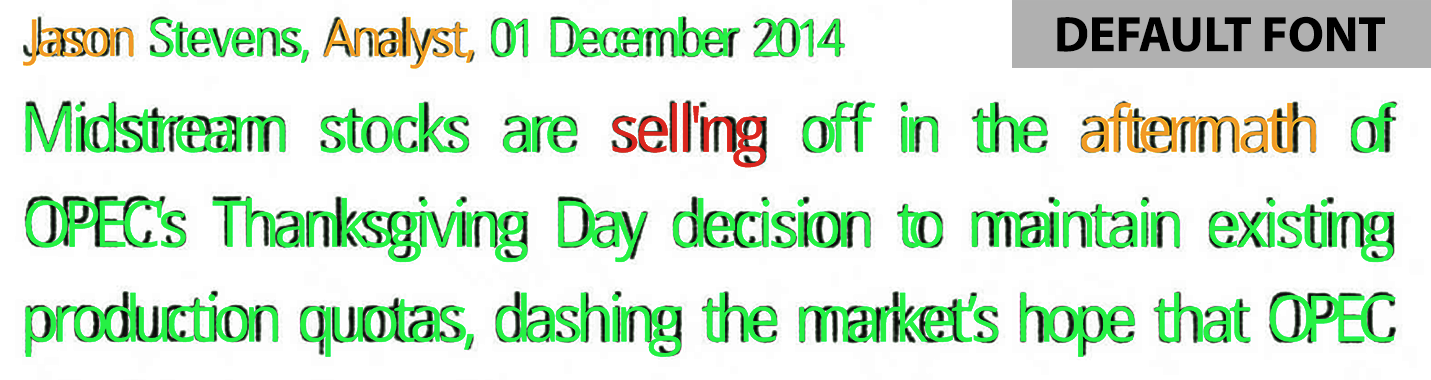
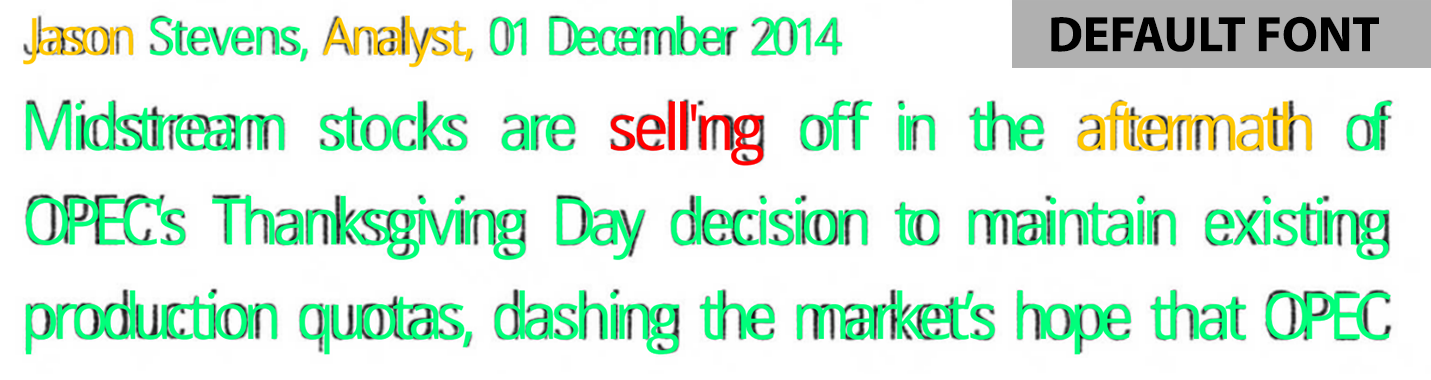
Fixed bugs

diff --git a/js/fontOptimize.js b/js/fontOptimize.js
@@ -14,8 +14,6 @@ export async function optimizeFont(font, auxFont, fontMetricsObj){
     let workingFont = opentype.parse(fontData, {lowMemory:false});
     let workingFontAux = opentype.parse(fontDataAux, {lowMemory:false});
 
-    workingFont.tables.gsub = null;
-
     let oGlyph = workingFont.charToGlyph("o").getMetrics();
     let xHeight = oGlyph.yMax - oGlyph.yMin;
 
@@ -26,6 +24,8 @@ export async function optimizeFont(font, auxFont, fontMetricsObj){
     const singleStemClassA = ["f","i","l","t","I"];
     const singleStemClassB = ["f","i","j","l","t","I","J","T"];
 
+    //const workingFontRightBearingMedian = quantile(lower.map(x => workingFont.charToGlyph(x).getMetrics().rightSideBearing), 0.5);
+    //console.log("workingFontRightBearingMedian: " + workingFontRightBearingMedian);
 
     // Adjust character width and advance
     for (const [key, value] of Object.entries(fontMetricsObj["charWidth"])) {
@@ -58,6 +58,7 @@ export async function optimizeFont(font, auxFont, fontMetricsObj){
 
         }
       }
+      //shiftX = shiftX + workingFontRightBearingMedian;
 
       // TODO: For simplicitly this assumes the visual center of the glyph is in the center of the bounding box.
       // This is not always true (for example, for "f" and "t" in Libre Baskerville).
@@ -216,7 +217,7 @@ export async function optimizeFont(font, auxFont, fontMetricsObj){
     let maxKern = Math.round(workingFont.unitsPerEm * 0.1);
     let minKern = maxKern * -1;
 
-    for (const [key, value] of Object.entries(fontMetricsObj["pairKerning"])) {
+    for (const [key, value] of Object.entries(fontMetricsObj["pairKerningRaw"])) {
       let nameFirst = key.match(/\w+/)[0];
       let nameSecond = key.match(/\w+$/)[0];
 
@@ -285,6 +286,7 @@ export function calculateOverallFontMetrics(fontMetricObjsMessage){
     fontMetricsObj["charWidth"] = new Object;
     fontMetricsObj["charHeight"] = new Object;
     fontMetricsObj["pairKerning"] = new Object;
+    fontMetricsObj["pairKerningRaw"] = new Object;
     fontMetricsObj["cutMedian"] = new Object;
 
     const pageN = fontMetricObjsMessage["widthObjAll"].length;
@@ -369,6 +371,7 @@ export function calculateOverallFontMetrics(fontMetricObjsMessage){
 
    let kerningNorm;
    for (const [key, value] of Object.entries(kerningObj)) {
+     fontMetricsObj["pairKerningRaw"][key] = quantile(value, 0.5);
      //kerningNorm = Math.round((quantile(value, 0.5) - cutMedian[key.match(/\w+$/)]) * 1e5) / 1e5;
      kerningNorm = quantile(value, 0.5) - fontMetricsObj["cutMedian"][key.match(/\w+$/)];
      if(Math.abs(kerningNorm) > 0.02){

diff --git a/js/convertPage.js b/js/convertPage.js
@@ -47,9 +47,13 @@ function convertPage(hocrString){
   var lineLeft = new Array;
   var lineTop = new Array;
 
-  let pageElement = hocrString.match(/<div class=[\"\']ocr_page[\"\'][^\>]+/i)[0];
-  let pageDims = pageElement.match(/(?<=bbox \d+ \d+ )(\d+) (\d+)/i);
-  pageDims = [parseInt(pageDims[2]),parseInt(pageDims[1])];
+  let pageDims = [null,null];
+  let pageElement = hocrString.match(/<div class=[\"\']ocr_page[\"\'][^\>]+/i);
+  if(pageElement != null){
+    pageElement = pageElement[0];
+    pageDims = pageElement.match(/(?<=bbox \d+ \d+ )(\d+) (\d+)/i);
+    pageDims = [parseInt(pageDims[2]),parseInt(pageDims[1])];
+  }
 
   // Test whether character-level data (class="ocrx_cinfo" in Tesseract) is present.
   const charMode = /ocrx_cinfo/.test(hocrString) ? true : false;
@@ -91,12 +95,19 @@ function convertPage(hocrString){
   function convertLine(match){
     let titleStrLine = match.match(/(?<=title\=[\'\"])[^\'\"]+/)
     if(titleStrLine == null){
-      return("")
+      return("");
     } else {
       titleStrLine = titleStrLine[0];
     }
     let linebox = [...titleStrLine.matchAll(/bbox(?:es)?(\s+\d+)(\s+\d+)?(\s+\d+)?(\s+\d+)?/g)][0].slice(1,5).map(function (x) {return parseInt(x)})
-    let baseline = [...titleStrLine.matchAll(/baseline(\s+[\d\.\-]+)(\s+[\d\.\-]+)/g)][0].slice(1,5).map(function (x) {return parseFloat(x)})
+
+    // The baseline can be missing in the case of vertical text (textangle present instead)
+    let baseline = [...titleStrLine.matchAll(/baseline(\s+[\d\.\-]+)(\s+[\d\.\-]+)/g)][0];
+    if(baseline == null){
+      return("");
+    } else {
+      baseline = baseline.slice(1,5).map(function (x) {return parseFloat(x)});
+    }
     // Only calculate baselines from lines 200px+.
     // This avoids short "lines" (e.g. page numbers) that often report wild values.
     if((linebox[2] - linebox[0]) >= 200){
@@ -192,13 +203,13 @@ function convertPage(hocrString){
       text = text.trim()
 
       if(text == ""){
-        return("")
+        return("");
       } else {
         //let wordStr = match.match(/<span class\=[\"\']ocrx_word[^\>]+\>/i)[0];
         let wordStr = match.match(wordElementRegex)[0];
         //wordStr = wordStr.replace(/(?<=title\=[\"\'])[^\"\']+/, "$&" + ";cuts " + cuts.join(' '));
         //wordStr = wordStr.replace(wordTitleRegex, "$&" + ";cuts " + cuts.join(' '));
-        return(wordStr + text + "</span>")
+        return(wordStr + text + "</span>");
       }
     }
 

diff --git a/index.html b/index.html
@@ -86,7 +86,7 @@
 
 <body>
 
-  <div class="navbar sticky-top navbar-light bg-light" style="padding-bottom:0px">
+  <div id="navBar" class="navbar sticky-top navbar-light bg-light" style="padding-bottom:0px;width:100%">
     <div class="container">
       <div class="container-fluid" id="user-controls">
         <div class="row nav-row">
@@ -123,8 +123,8 @@
               <div class="col col-2">
                 <select id="wordFont" class="form-select form-select-sm" size="1" onchange="changeWordFont(this.value)">
                   <option selected value="Default">Default</option>
-                  <option value="Open Sans">Open Sans</option>
-                  <option value="Libre Baskerville">Libre Baskerville</option>
+                  <option value="Open Sans">Sans (Open Sans)</option>
+                  <option value="Libre Baskerville">Serif (Libre Baskerville)</option>
                 </select>
                 <div class="input-group" style="padding-top:0.4rem;">
                   <button class="btn btn-secondary btn-sm" id="fontMinus">-</button>
@@ -316,8 +316,8 @@ For both OCR and image files, individual files for each page or a single file wi
               <div class="col col-3">
                 <label for="displayFont">Font (Default)</label>
                 <select id="displayFont" class="form-select" size="1">
-                  <option value="Open Sans">Open Sans</option>
-                  <option selected value="Libre Baskerville">Libre Baskerville</option>
+                  <option value="Open Sans">Sans (Open Sans)</option>
+                  <option selected value="Libre Baskerville">Serif (Libre Baskerville)</option>
 
                 </select>
               </div>
@@ -477,7 +477,7 @@ For both OCR and image files, individual files for each page or a single file wi
 
           <div class="container">
             <div class="col col-md-9">
-              <canvas id="c" style="border-style:solid;" width="450" height="600"></canvas>
+              <canvas id="c" style="border-style:solid" width="450" height="600"></canvas>
               <canvas id="d" style="display:none;"></canvas>
             </div>
 

diff --git a/main.js b/main.js
@@ -132,7 +132,7 @@ document.getElementById('rangeLeftMargin').addEventListener('mouseup', () => {ad
 document.getElementById('save2').addEventListener('click', handleDownload);
 document.getElementById('pdfPagesLabel').addEventListener('click', updatePdfPagesLabel);
 
-document.getElementById('displayMode').addEventListener('change', () => {selectDisplayMode(event.target.value)});
+document.getElementById('displayMode').addEventListener('change', () => {selectDisplayMode(event.target.value, backgroundOpts)});
 
 
 document.getElementById('pdfPageMin').addEventListener('keyup', function(event){
@@ -591,6 +591,7 @@ function clearFiles(){
   document.getElementById('pageNum').value = "";
   window.currentPage = 0;
   upload.value = "";
+  document.getElementById('optimizeFont').checked = false;
   document.getElementById('optimizeFont').disabled = true;
   document.getElementById('save2').disabled = true;
   document.getElementById('confThreshHigh').disabled = true;
@@ -838,6 +839,7 @@ async function recognize(){
 
 }
 
+var backgroundOpts = new Object;
 // Function that handles page-level info for rendering to canvas and pdf
 export async function renderPageQueue(n, mode = "screen", loadXML = true, lineMode = false, dimsLimit = null){
 
@@ -883,8 +885,6 @@ export async function renderPageQueue(n, mode = "screen", loadXML = true, lineMo
     window.doc.addPage({size:[canvasDims[1],canvasDims[0]],
     margins: 0});
   }
-
-  let backgroundOpts = new Object;
 
   if(autoRotateCheckbox.checked){
     backgroundOpts.angle = window.pageMetricsObj["angleAll"][n] * -1 ?? 0;
